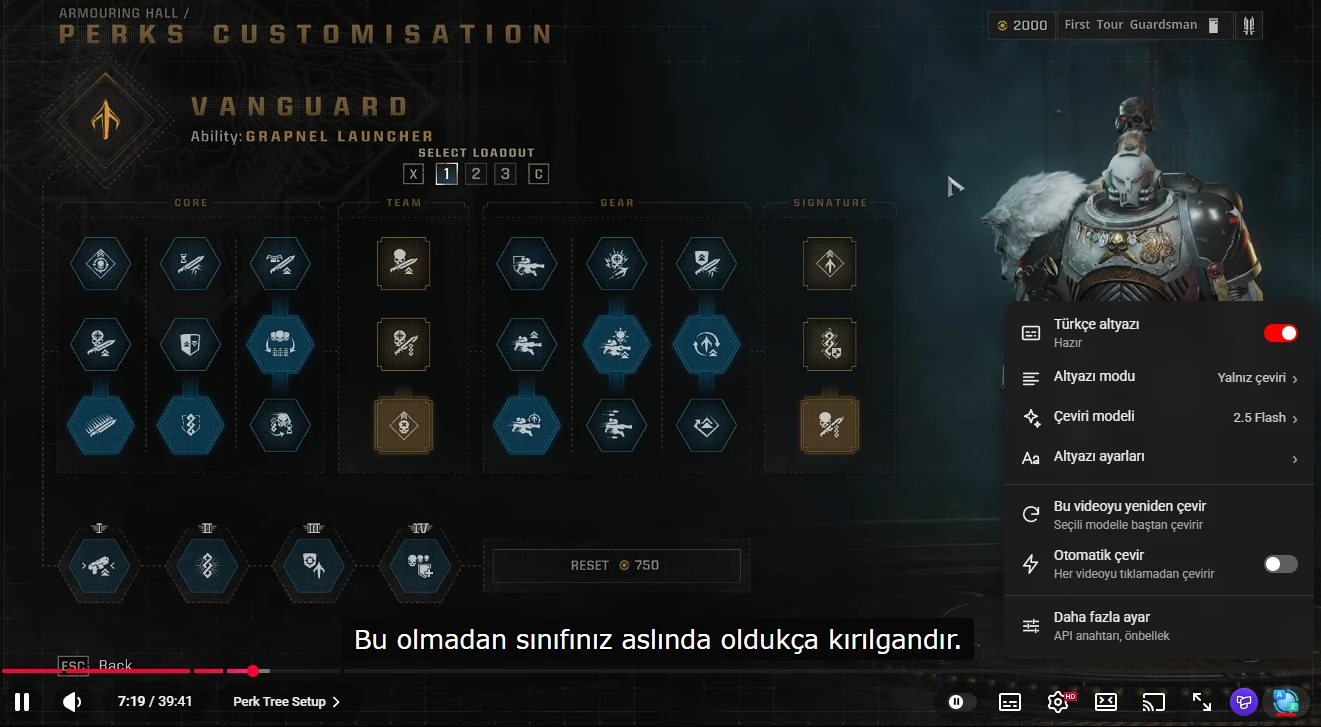
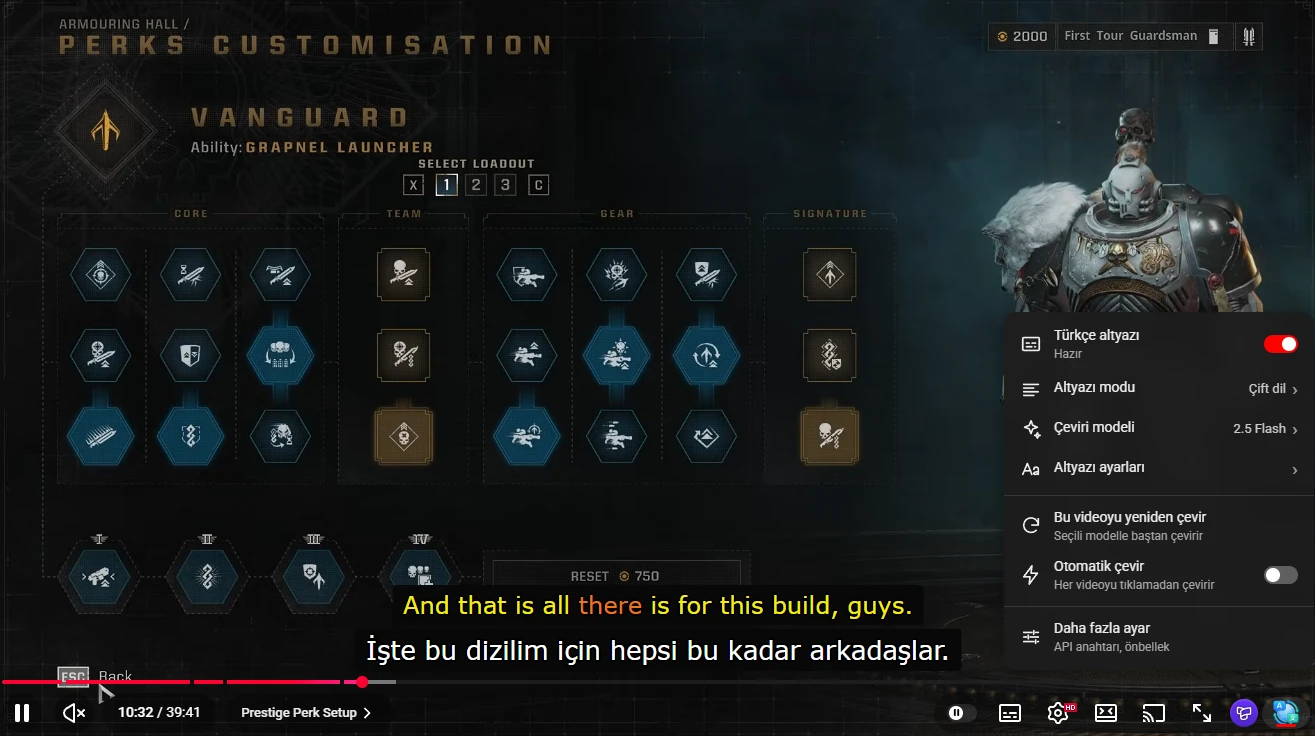
Show dual mode in the README and update the popup screenshot
The top screenshot now shows dual-mode subtitles with the spoken word
highlighted, together with the menu. The popup screenshot shows the
corrected auto-translate hint; the masked API key is blurred again.

diff --git a/README.md b/README.md
@@ -12,7 +12,7 @@
 A Chrome / Edge extension (Manifest V3) that translates YouTube captions into Turkish with Google Gemini and shows them as subtitles on the video.
 
 <p align="center">
-  <img src="docs/images/player.webp" width="800" alt="Turkish subtitles and the extension's menu on a YouTube video">
+  <img src="docs/images/player.webp" width="800" alt="Dual-mode subtitles on a YouTube video: the original line with the spoken word highlighted, the Turkish translation below it, and the extension's menu">
 </p>
 
 > [Türkçe açıklama aşağıda.](#türkçe)
